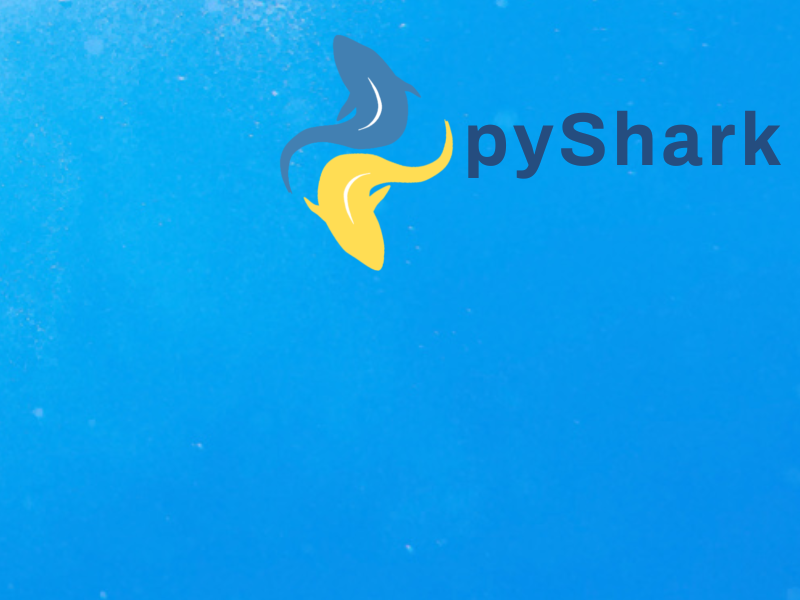
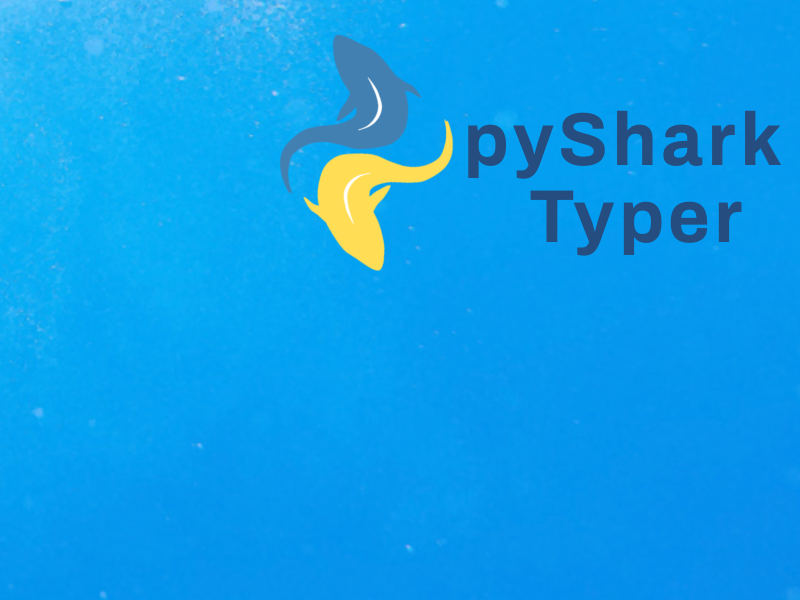
changed game name and added bg gameover

Changed region(s): [[0.6562, 0.3, 0.9375, 0.45]]

diff --git a/game.py b/game.py
@@ -16,7 +16,7 @@ pygame.init()
 # constants
 SCREEN_WIDTH = 800
 SCREEN_HEIGHT = 600
-TITLE = 'pyShark'
+TITLE = 'pyShark Typer'
 MIN_SPAWN_HEIGHT = 10
 MAX_SPAWN_HEIGHT = int(SCREEN_HEIGHT * 0.8)
 SHARK_WORDS = []
@@ -633,7 +633,6 @@ def main(screen):
                     pygame.event.post(pygame.event.Event(SCROLL))
             
             for player in players:
-                print(player)
                 update(player, dt, animation_frame, player.y_velocity)
 
             for bomb in bombs:
@@ -677,8 +676,8 @@ def main(screen):
 def main_menu(screen = pygame.display.set_mode([SCREEN_WIDTH,SCREEN_HEIGHT])):
 
     # create screen
-    # screen = pygame.display.set_mode([SCREEN_WIDTH,SCREEN_HEIGHT])
     pygame.display.set_caption(TITLE)
+    pygame.display.set_icon(pygame.image.load('logo.png'))
 
     # main_menu sprites
     button_sprite = load_sprites('shark', 8, (804//2, 350//2))
@@ -947,7 +946,7 @@ def credits(screen):
 def game_over_screen(screen, score):
     
     # game over screen
-    background_img = pygame.image.load('bg_1.png').convert()
+    background_img = pygame.image.load('game_over_1.png').convert()
     button_sprite = load_sprites('shark', 8, (804//2, 350//2))      
     replay_button = Button('Play again', button_sprite, (SCREEN_WIDTH*0.55, SCREEN_HEIGHT*0.6), return_args, [True, True])
     back_button = Button('Main Menu', button_sprite, (SCREEN_WIDTH*0.55, SCREEN_HEIGHT*0.85), return_args, [False, True])
